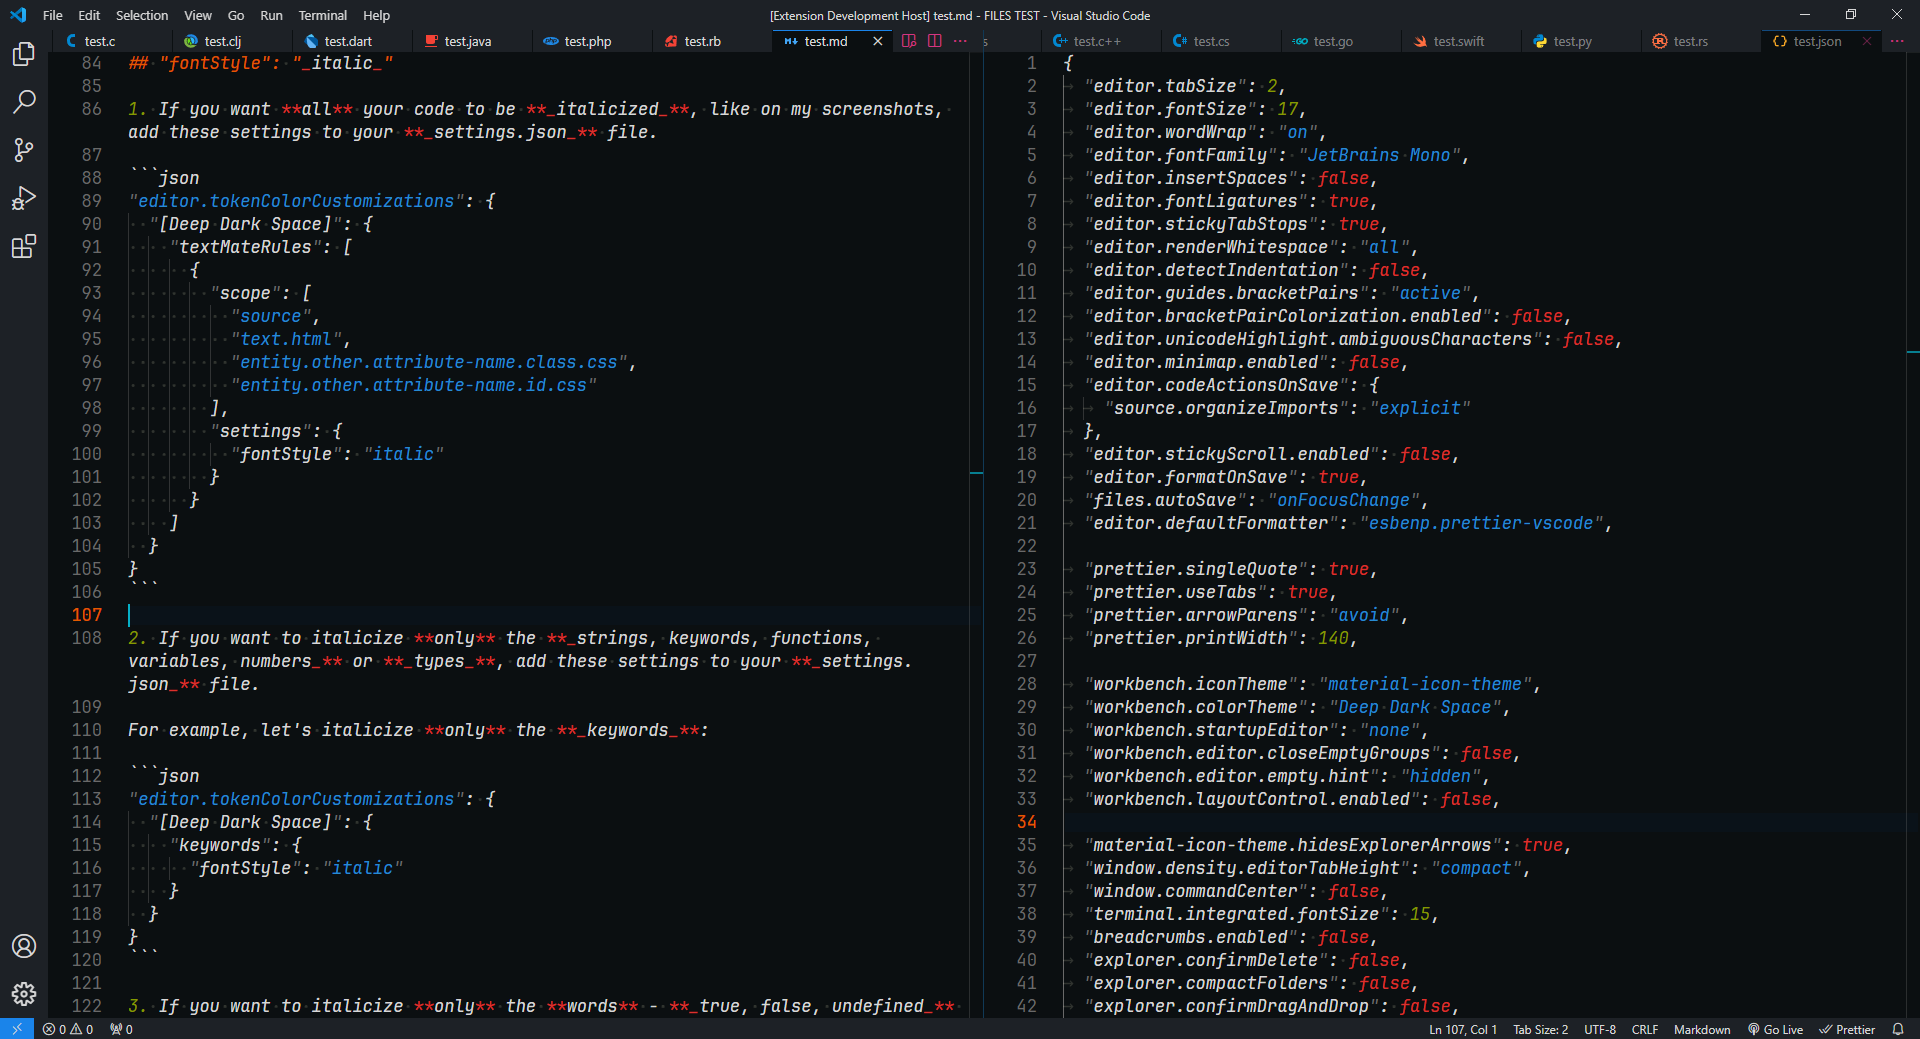
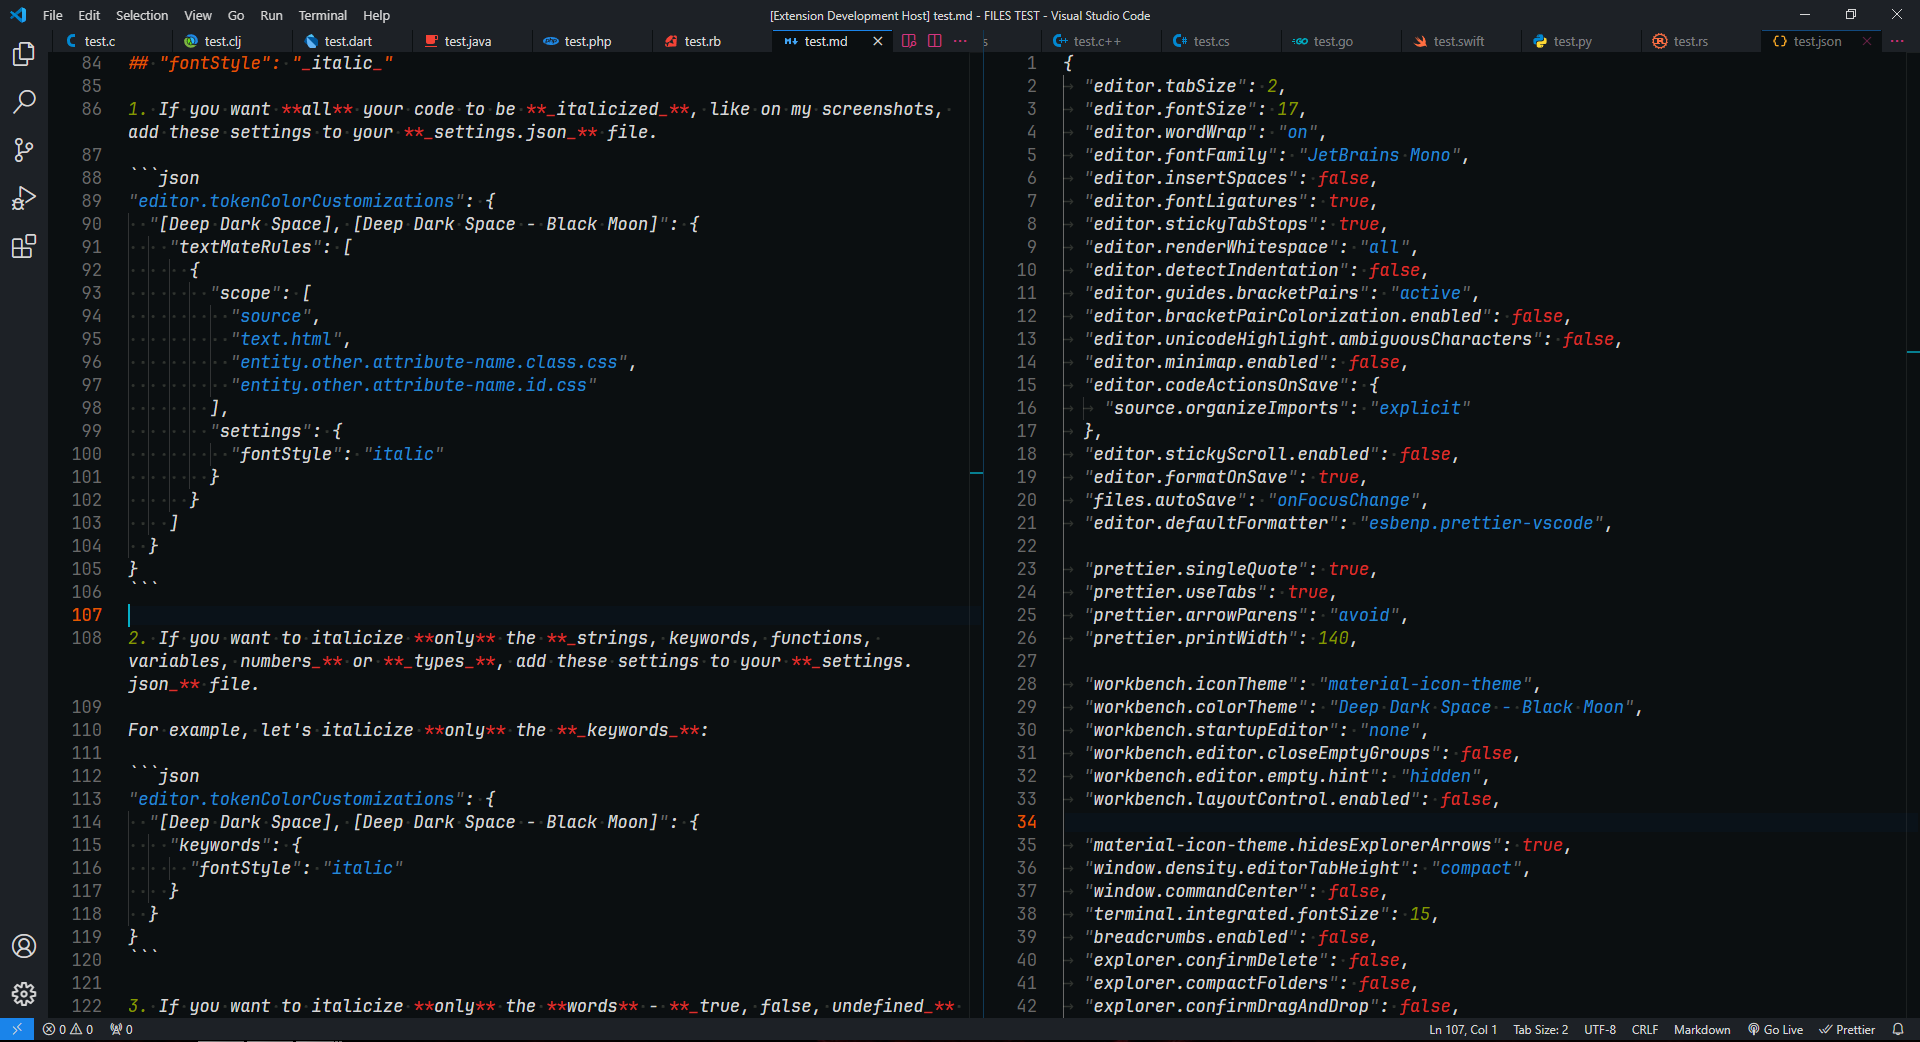
_

diff --git a/README.md b/README.md
@@ -55,7 +55,7 @@
 
 ```json
 "editor.tokenColorCustomizations": {
-  "[Deep Dark Space]": {
+  "[Deep Dark Space], [Deep Dark Space - Black Moon]": {
     "textMateRules": [
       {
         "scope": [
@@ -79,7 +79,7 @@ For example, let's italicize **only** the **_keywords_**:
 
 ```json
 "editor.tokenColorCustomizations": {
-  "[Deep Dark Space]": {
+  "[Deep Dark Space], [Deep Dark Space - Black Moon]": {
     "keywords": {
       "fontStyle": "italic"
     }
@@ -91,7 +91,7 @@ For example, let's italicize **only** the **_keywords_**:
 
 ```json
 "editor.tokenColorCustomizations": {
-  "[Deep Dark Space]": {
+  "[Deep Dark Space], [Deep Dark Space - Black Moon]": {
     "textMateRules": [
       {
         "scope": [
@@ -113,7 +113,7 @@ For example, let's italicize **only** the **_keywords_**:
 
 ```json
 "editor.tokenColorCustomizations": {
-  "[Deep Dark Space]": {
+  "[Deep Dark Space], [Deep Dark Space - Black Moon]": {
     "textMateRules": [
       {
         "scope": [
@@ -139,7 +139,7 @@ For example, let's italicize **only** the **_parameter_**:
 
 ```json
 "editor.semanticTokenColorCustomizations": {
-  "[Deep Dark Space]": {
+  "[Deep Dark Space], [Deep Dark Space - Black Moon]": {
     "enabled": true,
     "rules": {
       "parameter": {
